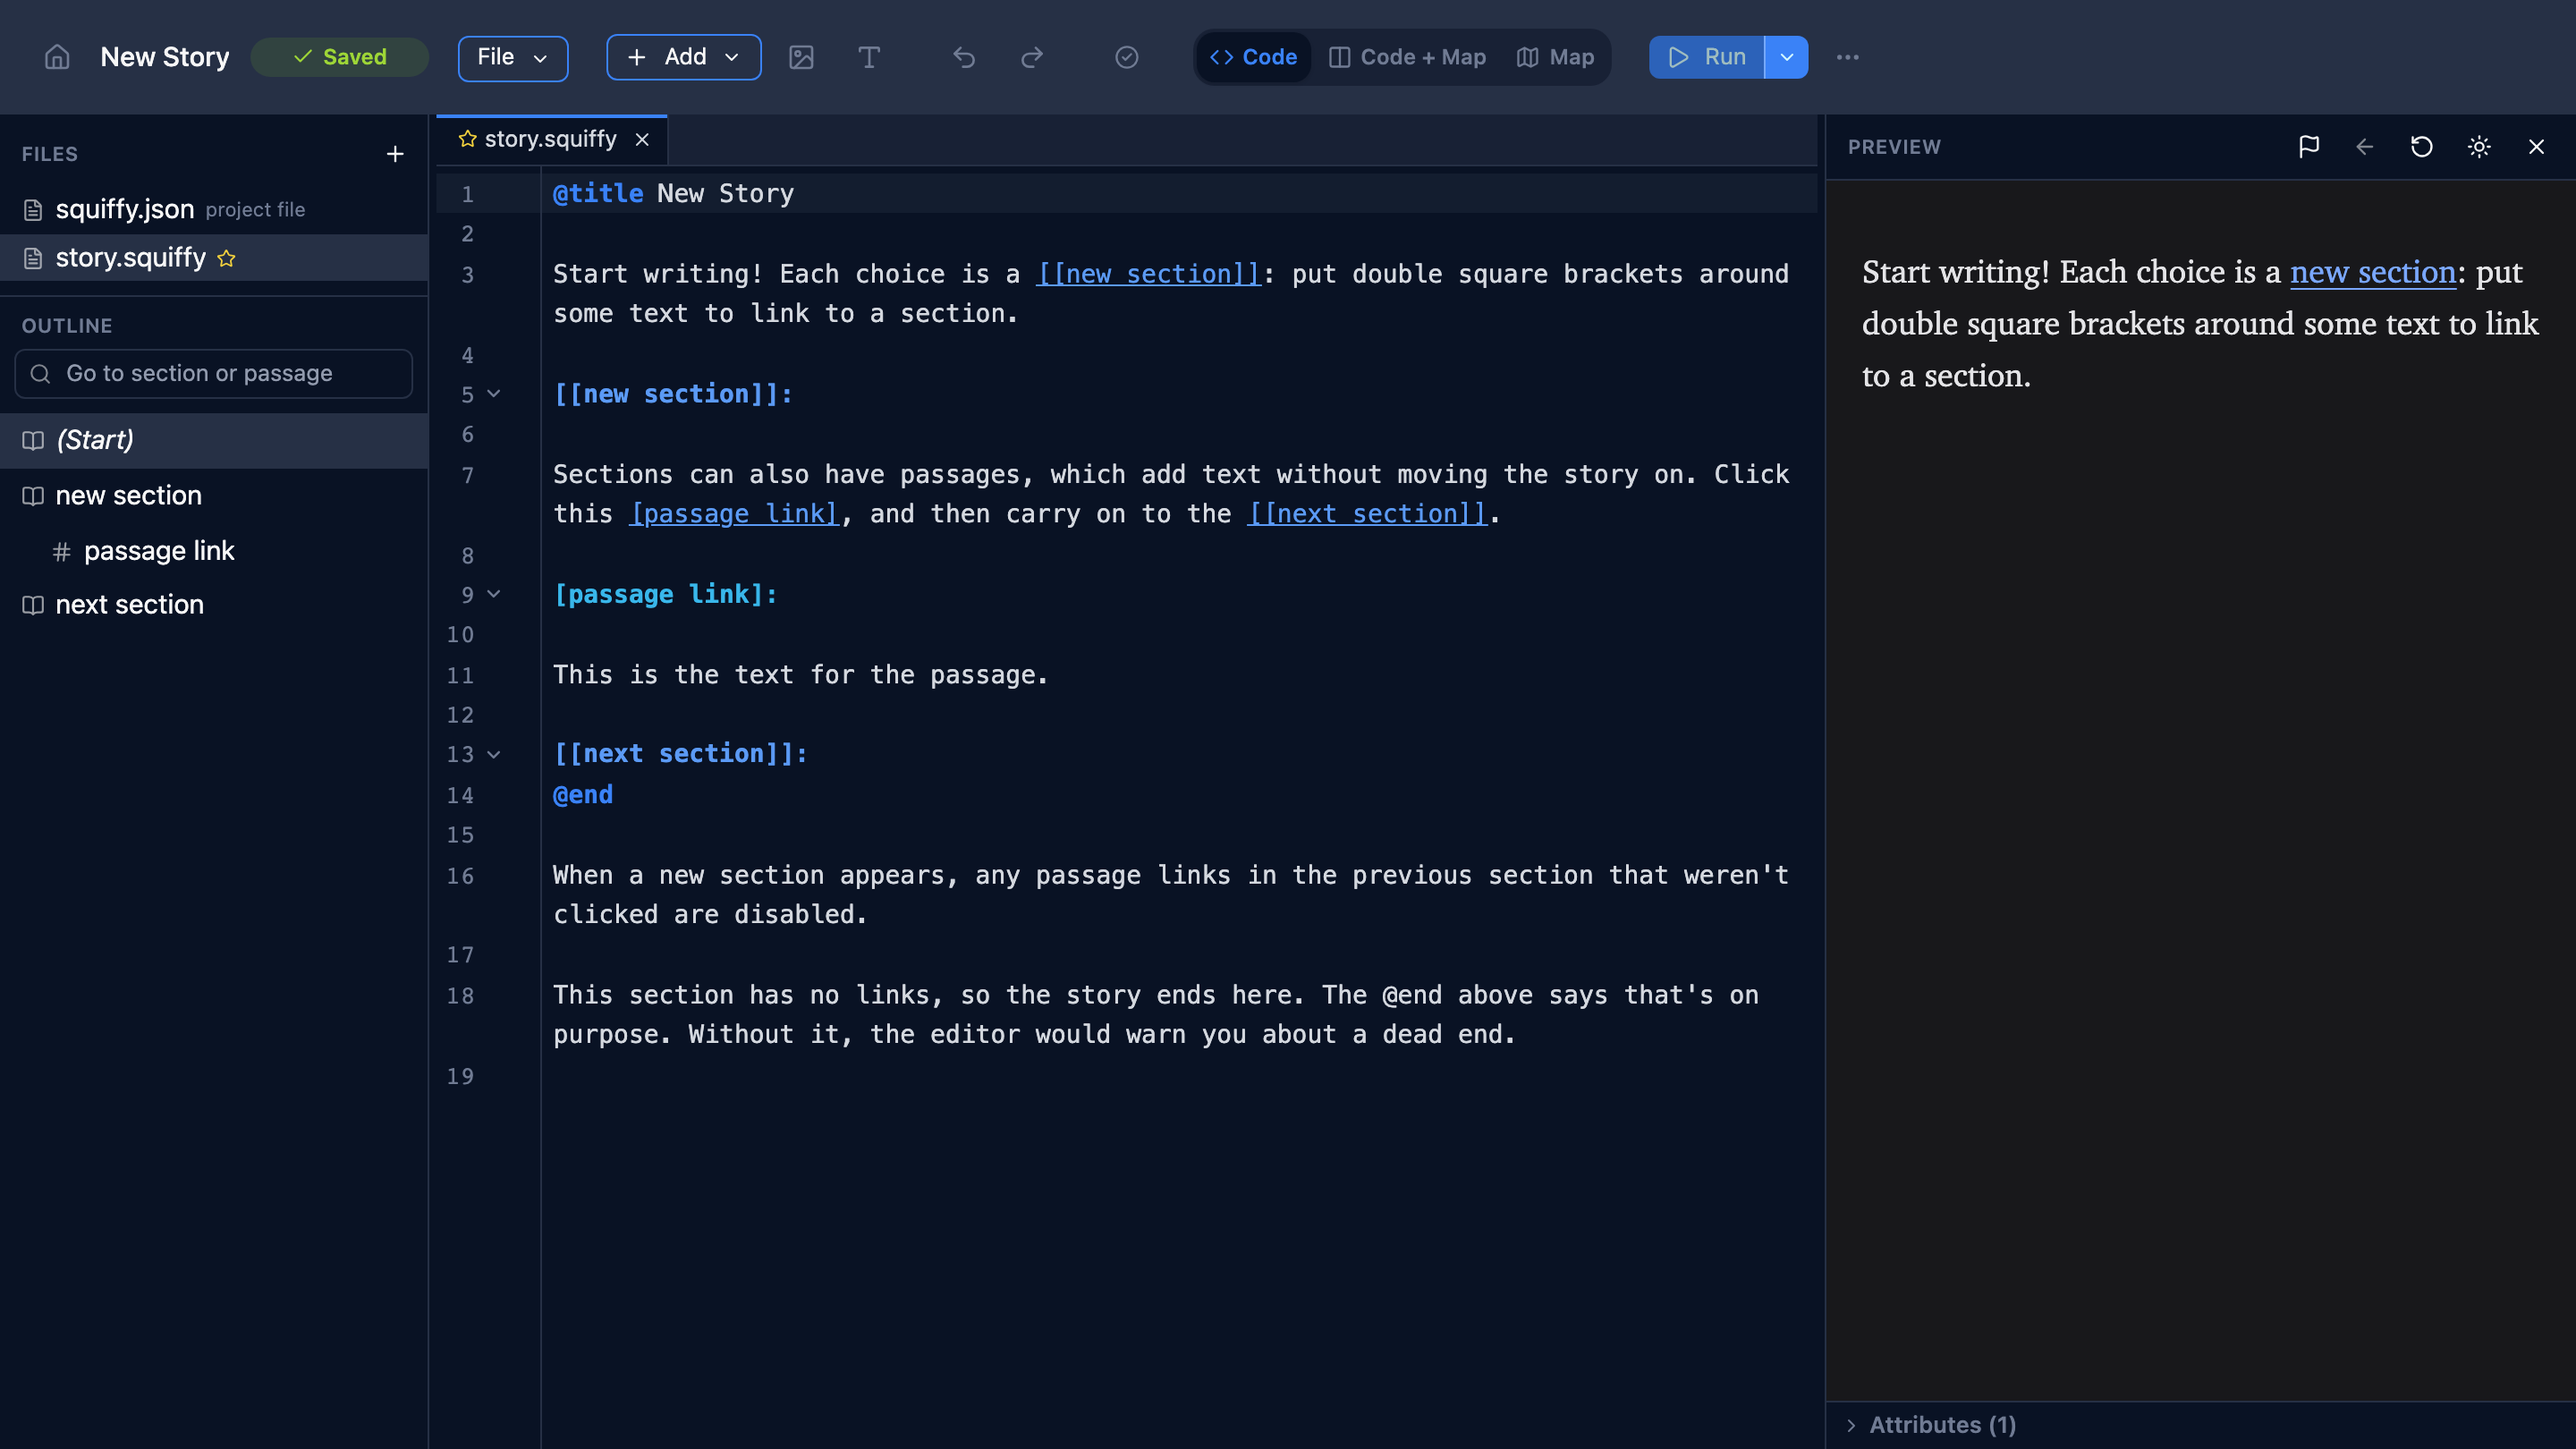
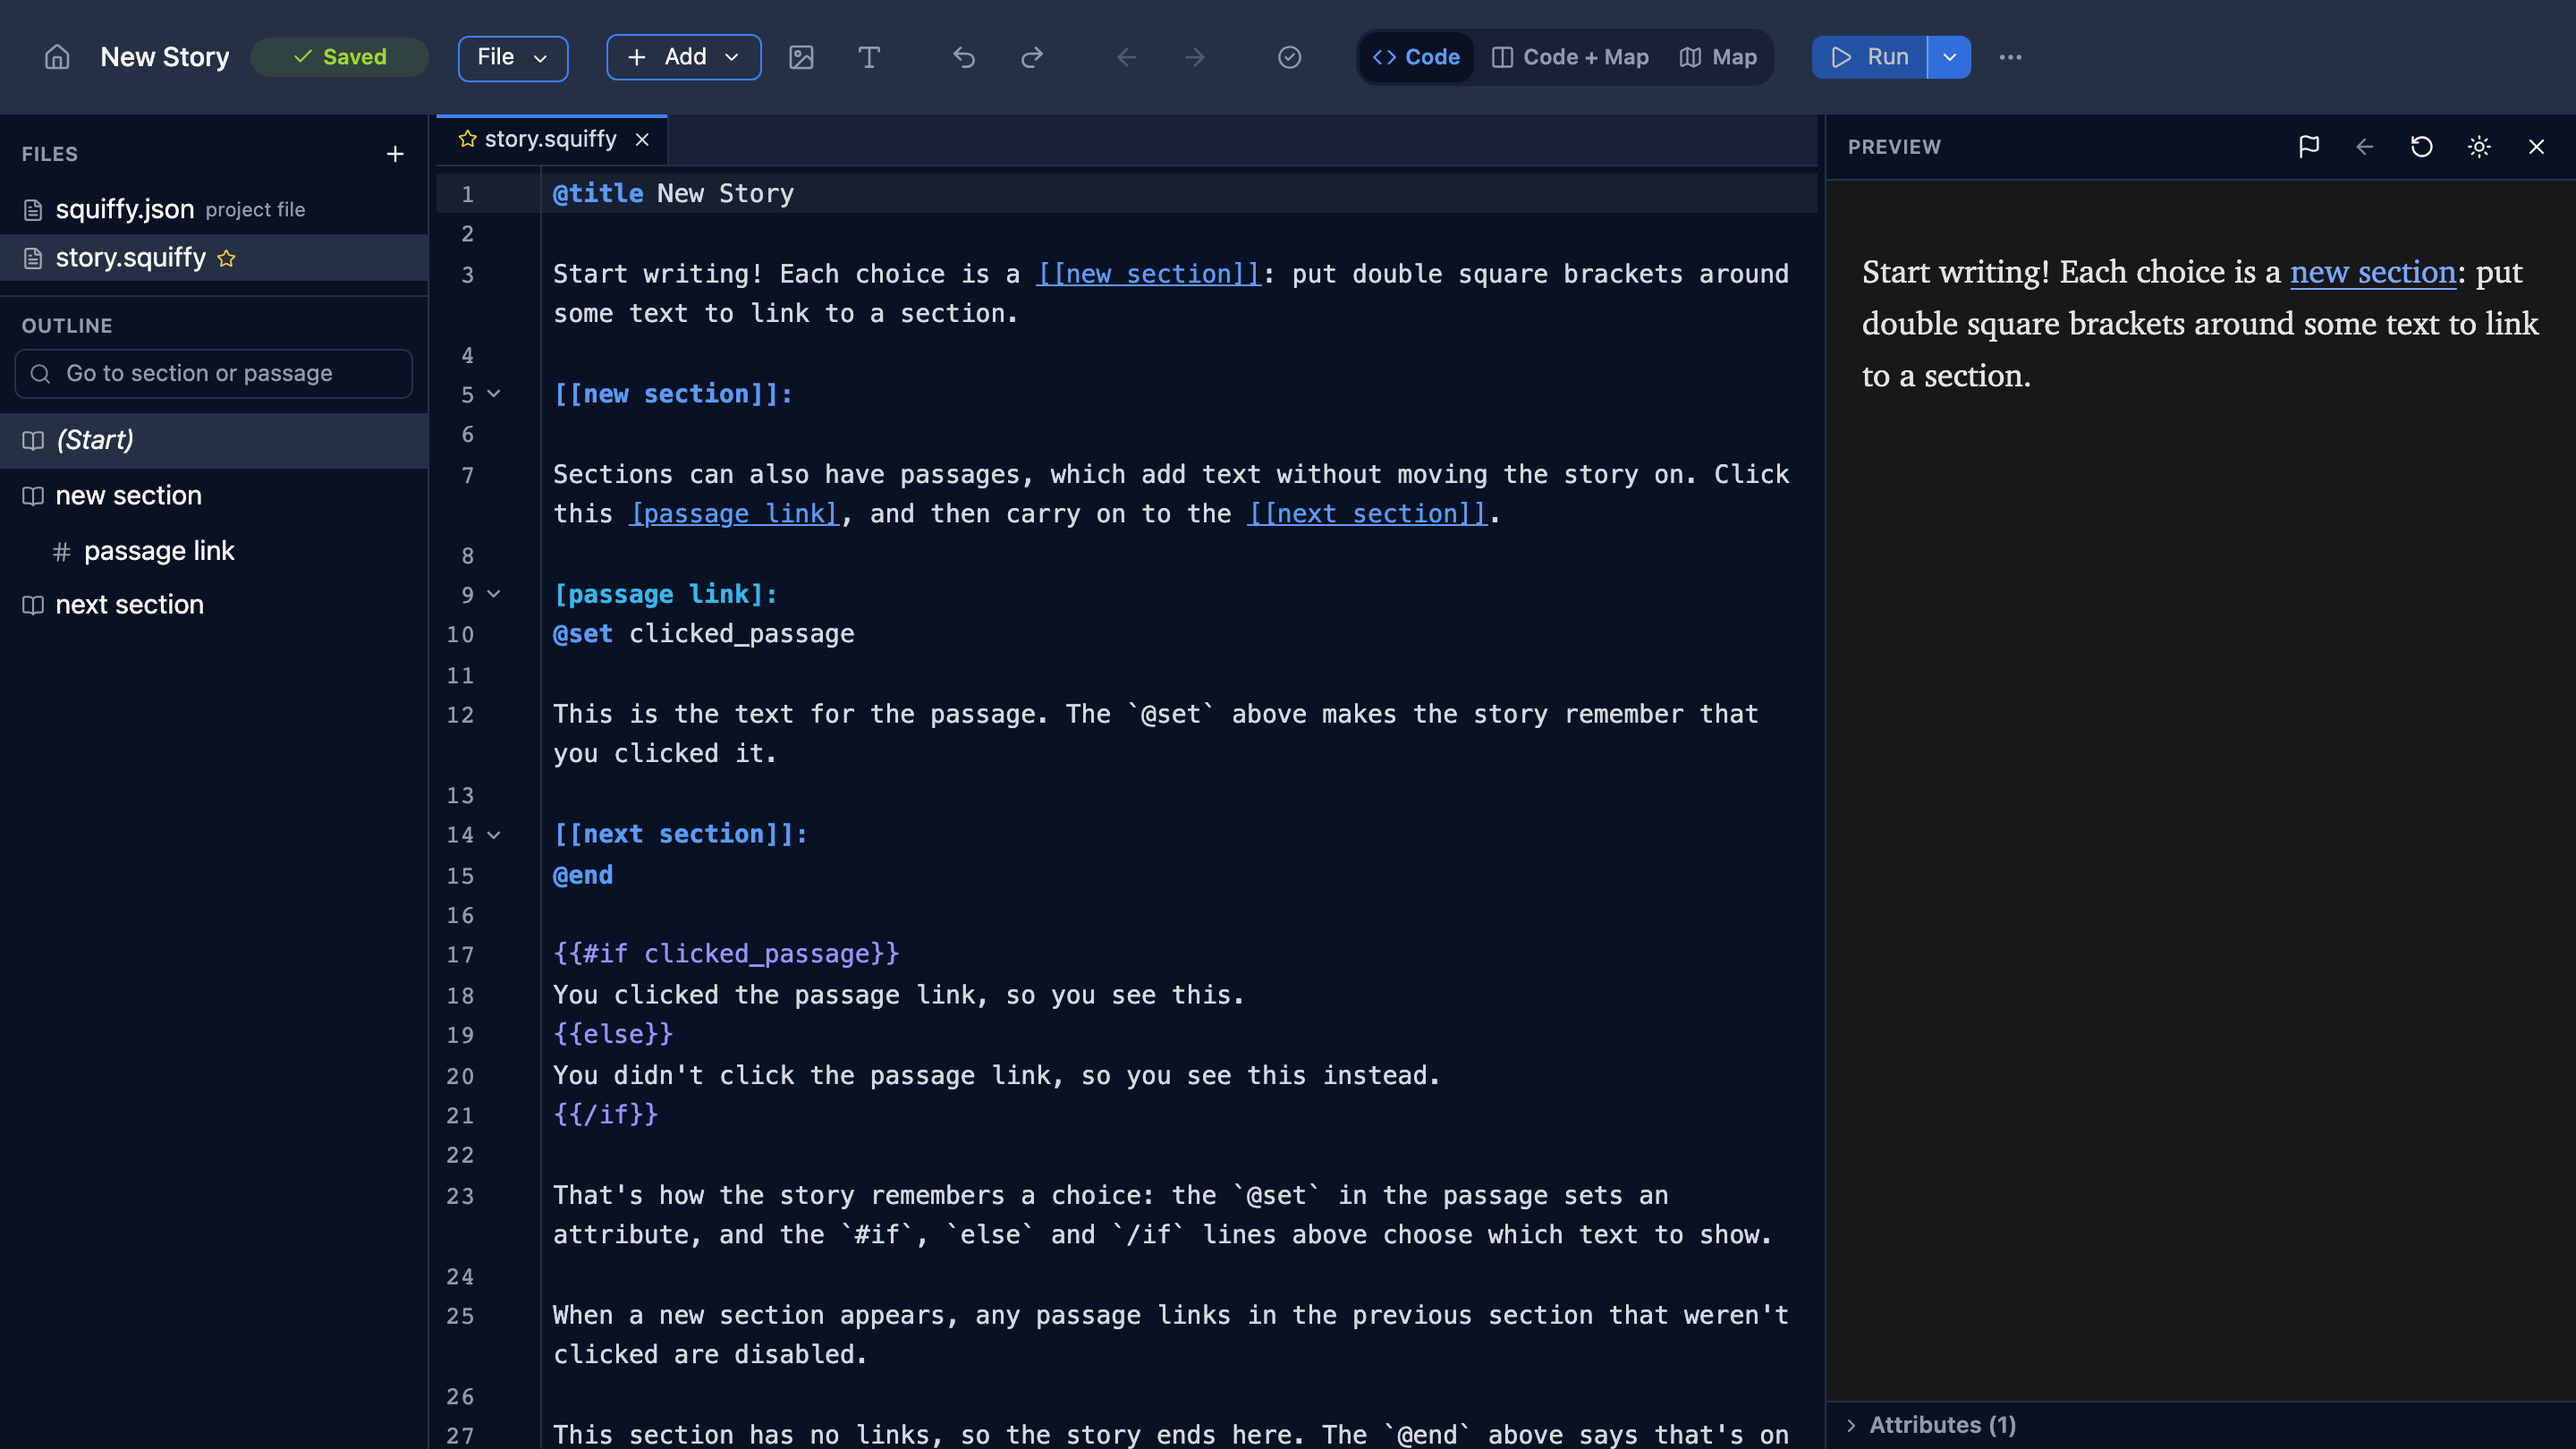
feat: show a newcomer how to make the story remember something (#726)

diff --git a/app/src/lib/editor-commands.test.ts b/app/src/lib/editor-commands.test.ts
@@ -1,7 +1,7 @@
 import { describe, expect, test } from "vitest";
 import { EditorSelection, EditorState } from "@codemirror/state";
 import type { DocumentSymbol } from "squiffy-compiler/language-service";
-import { addSectionOrPassageSpec, userSnippets } from "./editor-commands.js";
+import { addSectionOrPassageSpec, insertSnippetSpec, userSnippets } from "./editor-commands.js";
 
 const range = (start: number, end: number) => ({ start: { line: start, character: 0 }, end: { line: end, character: 0 } });
 const symbol = (name: string, kind: DocumentSymbol["kind"], start: number, end: number): DocumentSymbol =>
@@ -14,6 +14,37 @@ function run(doc: string, from: number, to: number, kind: "section" | "passage",
     const head = after.selection.main.head;
     return after.doc.sliceString(0, head) + "|" + after.doc.sliceString(head);
 }
+
+// Inserts a snippet with | as the cursor, and returns the text with | where the cursor ends up
+function snippet(doc: string, content: string) {
+    const at = doc.indexOf("|");
+    const state = EditorState.create({ doc: doc.replace("|", ""), selection: EditorSelection.cursor(at) });
+    const after = state.update(insertSnippetSpec(state, content)).state;
+    const head = after.selection.main.head;
+    return after.doc.sliceString(0, head) + "|" + after.doc.sliceString(head);
+}
+
+describe("Snippets", () => {
+    test("go where the cursor is", () => {
+        expect(snippet("You see |.", "{{embed \"name\"}}")).toBe("You see {{embed \"name\"}}|.");
+    });
+
+    test("that start with @ go on the cursor's line when it's blank", () => {
+        expect(snippet("[[a]]:\n|\nText.", "@set attribute")).toBe("[[a]]:\n@set attribute|\nText.");
+    });
+
+    test("that start with @ go on a line after the cursor's, when there's text before the cursor", () => {
+        expect(snippet("[[a]]:\nYou take| the key.", "@set attribute")).toBe("[[a]]:\nYou take the key.\n@set attribute|");
+    });
+
+    test("that start with @ go on a line before the cursor's, when the cursor is at its start", () => {
+        expect(snippet("[[a]]:\n|You take the key.", "@set attribute")).toBe("[[a]]:\n@set attribute|\nYou take the key.");
+    });
+
+    test("that start with @ go after a header, not before it", () => {
+        expect(snippet("|[[a]]:\nText.", "@inc score")).toBe("[[a]]:\n@inc score|\nText.");
+    });
+});
 
 describe("Add section and Add passage", () => {
     const doc = "[[a]]:\nGo to cave.\n\n[[b]]:\nEnd.";

diff --git a/app/src/lib/snippets.ts b/app/src/lib/snippets.ts
@@ -1,18 +1,19 @@
-// The 6.x editor's built-in snippets (editor/src/snippets.ts).
+// The Add menu's snippets, named by what they're for (#710), which VS Code's snippets match
+// (vscode/snippets/squiffy.code-snippets). One that starts with @ goes on a line of its own.
 export interface Snippet {
     name: string;
     content: string;
 }
 
 export const builtInSnippets: Snippet[] = [
-    { name: "If block",            content: "{{#if condition}}\n\n{{/if}}" },
-    { name: "If/else block",       content: "{{#if condition}}\n\n{{else}}\n\n{{/if}}" },
-    { name: "If (check variable)", content: '{{#if variable = "value"}}\n\n{{/if}}' },
-    { name: "If (seen section)",   content: '{{#if (seen "section")}}\n\n{{/if}}' },
-    { name: "Set variable",        content: '{{set "variable" "value"}}' },
-    { name: "Increment",           content: '{{inc "variable"}}' },
-    { name: "Decrement",           content: '{{dec "variable"}}' },
-    { name: "Section link",        content: '{{section "name" text="label"}}' },
-    { name: "Passage link",        content: '{{passage "name" text="label"}}' },
-    { name: "Embed",               content: '{{embed "name"}}' },
+    { name: "Remember something (@set)",  content: "@set attribute" },
+    { name: "Show text only if…",         content: "{{#if condition}}\n\n{{/if}}" },
+    { name: "If… otherwise…",             content: "{{#if condition}}\n\n{{else}}\n\n{{/if}}" },
+    { name: "If an attribute has a value", content: '{{#if attribute = "value"}}\n\n{{/if}}' },
+    { name: "If a section has been seen", content: '{{#if (seen "section")}}\n\n{{/if}}' },
+    { name: "Count up by 1 (@inc)",       content: "@inc attribute" },
+    { name: "Count down by 1 (@dec)",     content: "@dec attribute" },
+    { name: "Section link",               content: '{{section "name" text="label"}}' },
+    { name: "Passage link",               content: '{{passage "name" text="label"}}' },
+    { name: "Embed",                      content: '{{embed "name"}}' },
 ];

diff --git a/app/src/lib/editor-commands.ts b/app/src/lib/editor-commands.ts
@@ -16,8 +16,30 @@ export function runCommand(view: EditorView, command: EditorCommand) {
 }
 
 export function insertSnippet(view: EditorView, content: string) {
-    view.dispatch(view.state.replaceSelection(content), { scrollIntoView: true });
+    view.dispatch(insertSnippetSpec(view.state, content), { scrollIntoView: true });
     view.focus();
+}
+
+// A snippet replaces the selection, except one that starts with @, such as @set, which only
+// works on a line of its own: that goes on the cursor's line if it's blank, or else on a new
+// line before it (with the cursor at its start, unless it's a section or passage's header) or
+// after it.
+export function insertSnippetSpec(state: EditorState, content: string): TransactionSpec {
+    if (!content.startsWith("@")) return state.replaceSelection(content);
+    const head = state.selection.main.head;
+    const line = state.doc.lineAt(head);
+    let from = line.from, to = line.to, insert = content;
+    if (line.text.trim()) {
+        if (state.sliceDoc(line.from, head).trim() || /^\[.*\]:\s*$/.test(line.text)) {
+            from = to = line.to;
+            insert = "\n" + content;
+        } else {
+            to = from;
+            insert = content + "\n";
+        }
+    }
+    const end = from + insert.length - (insert.endsWith("\n") ? 1 : 0);
+    return { changes: { from, to, insert }, selection: EditorSelection.cursor(end) };
 }
 
 // A new section or passage, after the section the cursor is in (passages belong to it). With

diff --git a/app/src/lib/project.svelte.ts b/app/src/lib/project.svelte.ts
@@ -49,15 +49,24 @@ Start writing! Each choice is a [[new section]]: put double square brackets arou
 Sections can also have passages, which add text without moving the story on. Click this [passage link], and then carry on to the [[next section]].
 
 [passage link]:
+@set clicked_passage
 
-This is the text for the passage.
+This is the text for the passage. The \`@set\` above makes the story remember that you clicked it.
 
 [[next section]]:
 @end
 
+{{#if clicked_passage}}
+You clicked the passage link, so you see this.
+{{else}}
+You didn't click the passage link, so you see this instead.
+{{/if}}
+
+That's how the story remembers a choice: the \`@set\` in the passage sets an attribute, and the \`#if\`, \`else\` and \`/if\` lines above choose which text to show.
+
 When a new section appears, any passage links in the previous section that weren't clicked are disabled.
 
-This section has no links, so the story ends here. The @end above says that's on purpose. Without it, the editor would warn you about a dead end.
+This section has no links, so the story ends here. The \`@end\` above says that's on purpose. Without it, the editor would warn you about a dead end.
 `;
 
 // Kept beside each story in the browser, in OPFS (stories/<id>/meta.json)

diff --git a/vscode/src/client/new-story.ts b/vscode/src/client/new-story.ts
@@ -19,15 +19,24 @@ Start writing! Each choice is a [[new section]]: put double square brackets arou
 Sections can also have passages, which add text without moving the story on. Click this [passage link], and then carry on to the [[next section]].
 
 [passage link]:
+@set clicked_passage
 
-This is the text for the passage.
+This is the text for the passage. The \`@set\` above makes the story remember that you clicked it.
 
 [[next section]]:
 @end
 
+{{#if clicked_passage}}
+You clicked the passage link, so you see this.
+{{else}}
+You didn't click the passage link, so you see this instead.
+{{/if}}
+
+That's how the story remembers a choice: the \`@set\` in the passage sets an attribute, and the \`#if\`, \`else\` and \`/if\` lines above choose which text to show.
+
 When a new section appears, any passage links in the previous section that weren't clicked are disabled.
 
-This section has no links, so the story ends here. The @end above says that's on purpose. Without it, the editor would warn you about a dead end.
+This section has no links, so the story ends here. The \`@end\` above says that's on purpose. Without it, the editor would warn you about a dead end.
 `;
 
 /** A story's title, tidied: one line, without extra spaces */

diff --git a/vscode/src/client/new-story.test.ts b/vscode/src/client/new-story.test.ts
@@ -8,7 +8,8 @@ const { clashMessage, fileName } = await import("./export.js");
 
 // The editor's new story, read from its source: importing it would need the app's tsconfig
 const source = readFileSync(new URL("../../../app/src/lib/project.svelte.ts", import.meta.url), "utf8");
-const editorNewStory = /export const NEW_STORY = `([\s\S]*?)`;/.exec(source)![1];
+// (evaluated as the template literal it is, for its escaped backticks)
+const editorNewStory: string = new Function(`return \`${/export const NEW_STORY = `([\s\S]*?)`;/.exec(source)![1]}\``)();
 
 test("the new story is the editor's", () => {
     expect(NEW_STORY).toBe(editorNewStory);

diff --git a/app/src/components/Toolbar.svelte b/app/src/components/Toolbar.svelte
@@ -266,7 +266,7 @@
                             type="button"
                             class="btn btn-xs preset-outlined-primary-500"
                             onclick={toggle}
-                            title="Add a section, passage or snippet"
+                            title="Add a section, passage, link, condition or something to remember"
                             aria-haspopup="menu"
                             aria-expanded={open}
                         ><Plus size={14} /> <span class="hidden md:inline">Add</span> <ChevronDown size={12} class="hidden md:inline" /></button>

diff --git a/runtime/src/squiffy.page.css b/runtime/src/squiffy.page.css
@@ -175,6 +175,13 @@ div#squiffy p
     text-wrap: pretty;
 }
 
+/* Code, such as `@set` in the text, at about the size of the text around it: a monospace font
+   at the same size looks bigger */
+div#squiffy code
+{
+    font-size: 0.875em;
+}
+
 /* Stop images overflowing the page */
 div#squiffy img
 {
